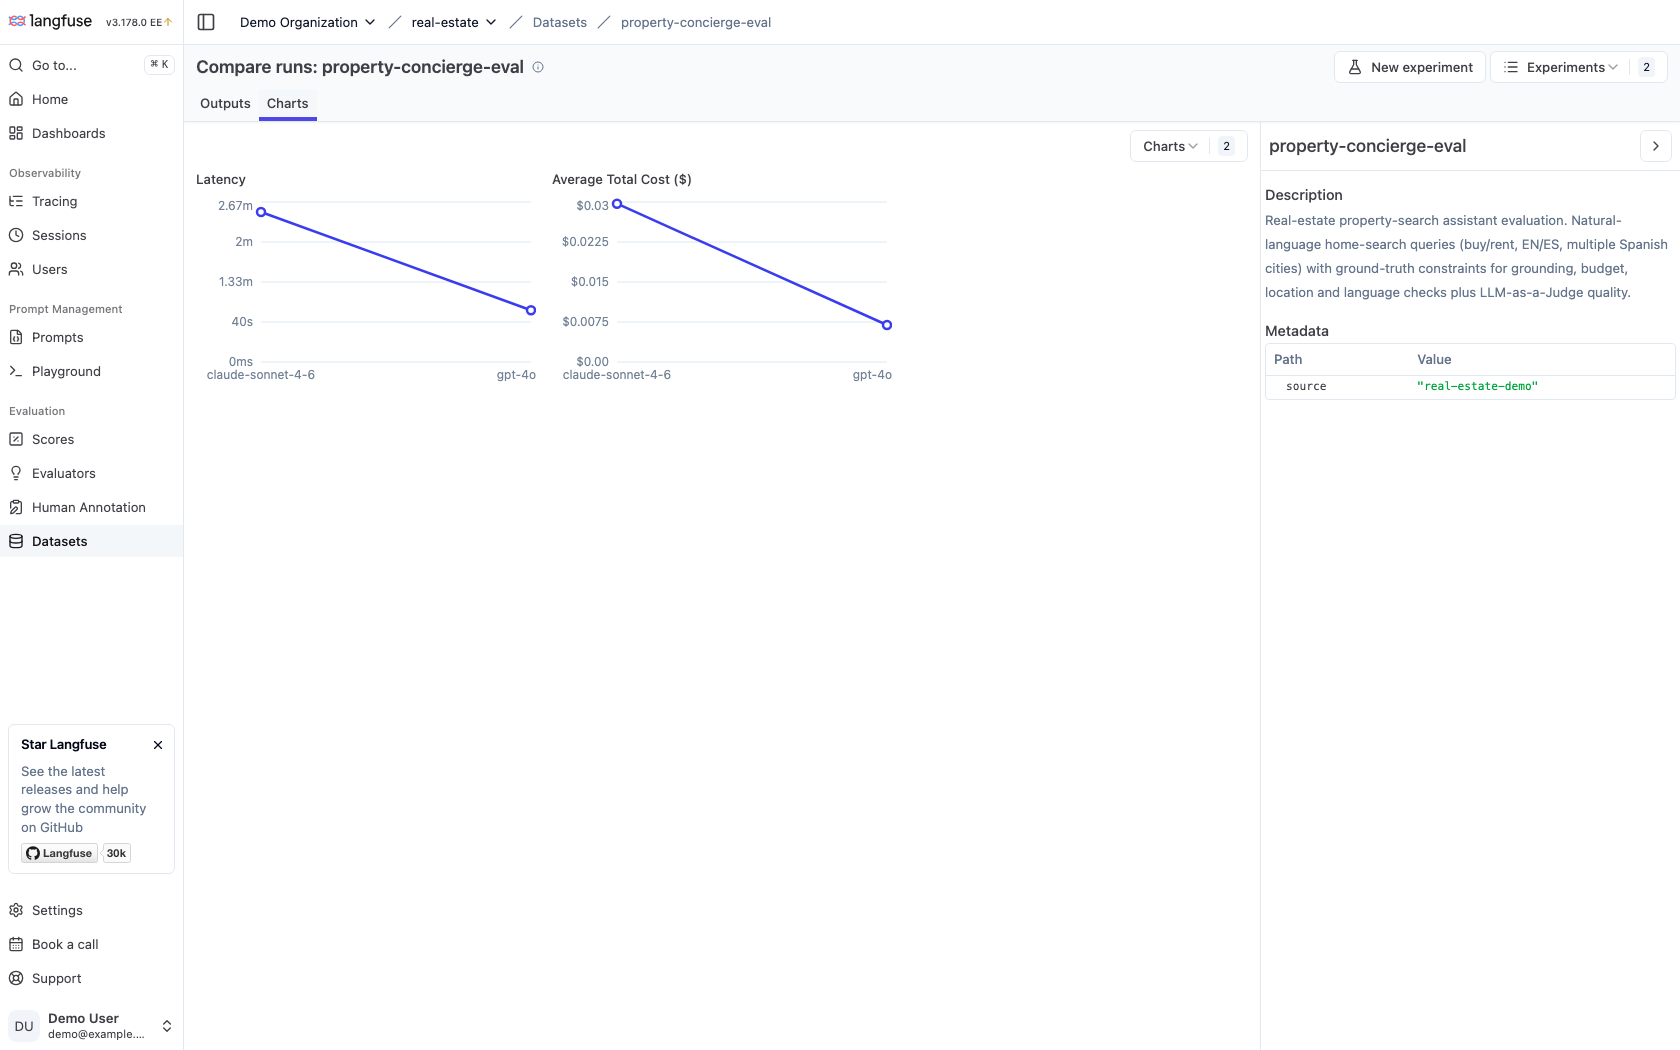
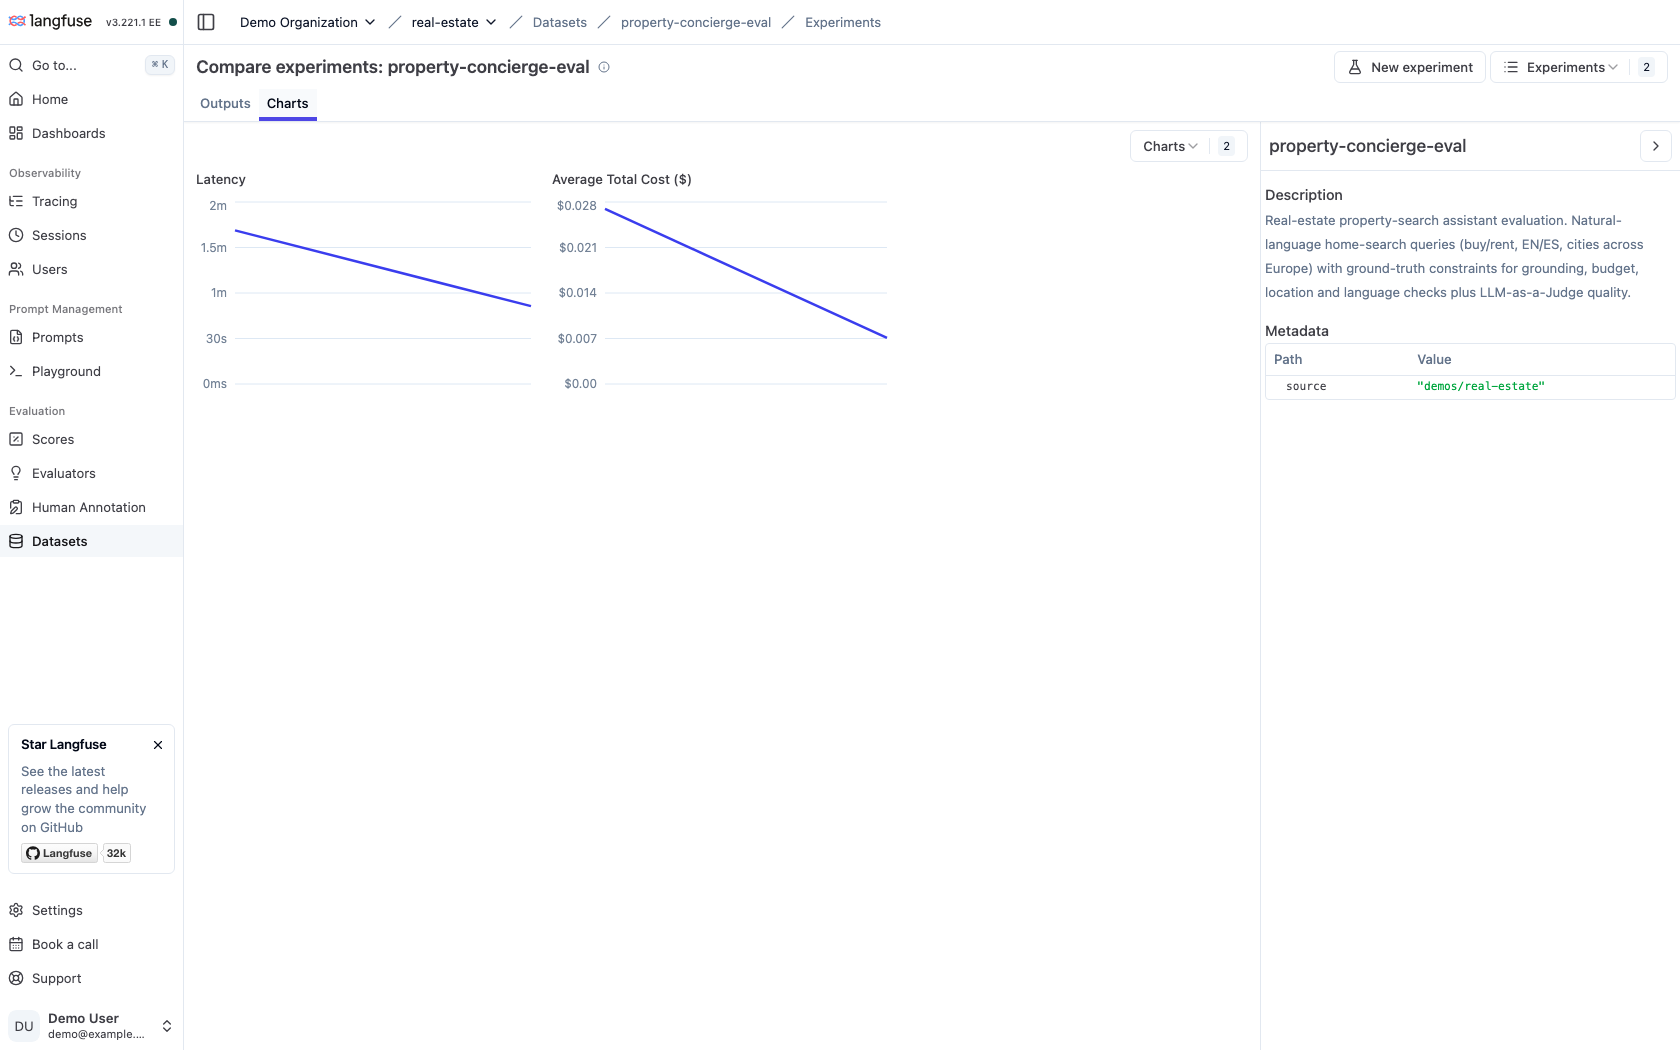
real-estate: regenerate Claude-vs-GPT compare on the 18-item Europe dataset
The committed compare images were captured on the old 10-item (Spain-only)
dataset. Re-ran both model experiments on the current 18-item pan-European
dataset and re-captured the Langfuse compare view.

- capture_compare.py: point at the fresh Claude/gpt-4o run ids
- compare-table.png / compare-charts.png: regenerated; both models now show
  real per-item and average cost (Claude ~$0.028 vs gpt-4o ~$0.007 avg),
  confirming the model-price cards resolve for both.

diff --git a/demos/real-estate/scripts/capture_compare.py b/demos/real-estate/scripts/capture_compare.py
@@ -12,8 +12,8 @@ EMAIL = "demo@example.com"
 PW = "demodemo1!"
 PROJ = "cmr22wcoe0003mv06l3ua15cl"
 DS = "cmr23ro4f0009mv06a3coxj0t"
-CLAUDE = "5667e64c-6a46-45ad-ae90-ed79b319c025"
-GPT = "46cdb6d7-1271-4789-b900-d4304415c7b2"
+CLAUDE = "d2dad7f8-46c6-45b7-986b-01a1ea19aed6"
+GPT = "f5d34872-09b9-411e-aa02-4c1d831240bf"
 COMPARE = f"{HOST}/project/{PROJ}/datasets/{DS}/compare?runs={CLAUDE}&runs={GPT}"
 OUT = Path(__file__).resolve().parent.parent
 
